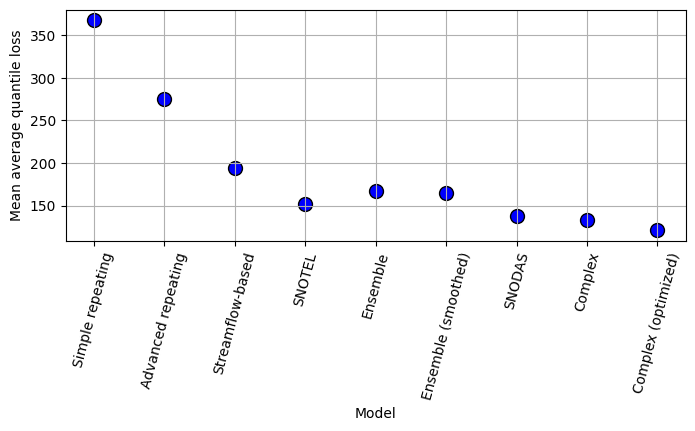
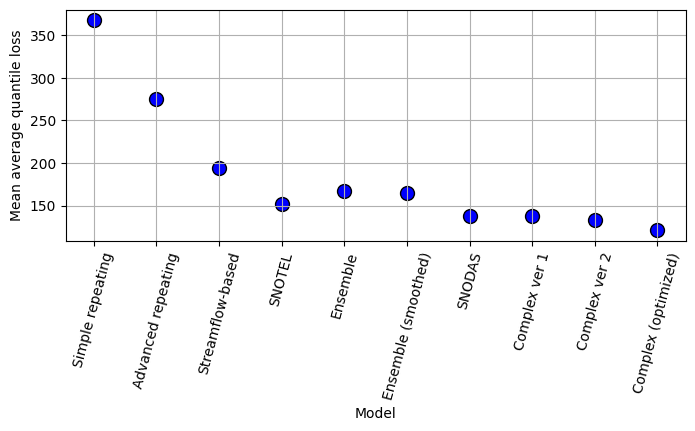
update information about complex models

diff --git a/examples/9_common_ver_1/validate_serialized_model.py b/examples/9_common_ver_1/validate_serialized_model.py
@@ -5,6 +5,7 @@ import pickle
 import shutil
 from pathlib import Path
 from typing import Hashable, Any, Optional, Union
+from loguru import logger
 
 import geopandas
 import numpy as np
@@ -533,17 +534,18 @@ def predict(site_id: str, issue_date: str, assets: dict[Hashable, Any],
         The three values should be (0.10 quantile, 0.50 quantile, 0.90 quantile).
     """
     # Prepare features for predict (see)
-    # try:
-    features_for_predict = collect_features_for_prediction(site_id, data_dir, preprocessed_dir, issue_date)
-    # except Exception as ex:
-    #     # Generate forecast like one year ago
-    #     try:
-    #         issue_date = datetime.datetime.strptime(issue_date, '%Y-%m-%d')
-    #         issue_date = issue_date - datetime.timedelta(days=365)
-    #         issue_date = issue_date.strftime('%Y-%m-%d')
-    #         features_for_predict = collect_features_for_prediction(site_id, data_dir, preprocessed_dir, issue_date)
-    #     except Exception as ex:
-    #         return 200.0, 400.0, 600.0
+    try:
+        features_for_predict = collect_features_for_prediction(site_id, data_dir, preprocessed_dir, issue_date)
+    except Exception as ex:
+        # Generate forecast like one year ago
+        try:
+            issue_date = datetime.datetime.strptime(issue_date, '%Y-%m-%d')
+            issue_date = issue_date - datetime.timedelta(days=365)
+            issue_date = issue_date.strftime('%Y-%m-%d')
+            features_for_predict = collect_features_for_prediction(site_id, data_dir, preprocessed_dir, issue_date)
+        except Exception as ex:
+            logger.info(f'Predictions was failed. Apply wrong approach')
+            return 200.0, 400.0, 600.0
 
     path_to_models = Path(src_dir, 'models').resolve()
 

diff --git a/report/generate_plot_with_metrics.py b/report/generate_plot_with_metrics.py
@@ -17,10 +17,11 @@ def compare_approaches():
     plots_folder = path_to_plots_folder()
     plots_folder.mkdir(exist_ok=True, parents=True)
 
-    df = pd.DataFrame({'Mean average quantile loss': [367.66, 275.82, 193.70, 151.71, 167.40, 165.20, 137.92, 132.90, 120.78],
+    df = pd.DataFrame({'Mean average quantile loss': [367.66, 275.82, 193.70, 151.71, 167.40, 165.20, 137.92, 137.65, 132.90, 120.78],
                        'Method': ['Simple repeating', 'Advanced repeating',
                                   'Streamflow-based', 'SNOTEL', 'Ensemble',
-                                  'Ensemble (smoothed)', 'SNODAS', 'Complex',
+                                  'Ensemble (smoothed)', 'SNODAS', 'Complex ver 1',
+                                  'Complex ver 2',
                                   'Complex (optimized)']})
 
     fig_size = (8.0, 3.0)

diff --git a/README.md b/README.md
@@ -209,6 +209,10 @@ Figure 10. Forecasts for tests years for site `animas_r_at_durango` using SNODAS
 
 ### Complex model ver 1
 
+Important! This model submitted to the Hindcast Stage
+
+Model assimilates PDSI, SNOTEL and Climate indices data 
+
 Validation years: `2016, 2017, 2018, 2019, 2020, 2021, 2022, 2023`
 
 - **MAE metric**: 214.44
@@ -216,7 +220,9 @@ Validation years: `2016, 2017, 2018, 2019, 2020, 2021, 2022, 2023`
 - **Symmetric MAPE metric**: 30.54
 - **Quantile loss metric**: 137.65
 - **Quantile loss metric (only for 0.5 quantile)**: 214.44
-- 
+
+Code for the model in the folder `9_common_ver_1`.
+
 ### Complex model ver 2
 
 Validation years: `2016, 2017, 2018, 2019, 2020, 2021, 2022, 2023`
@@ -226,7 +232,7 @@ Validation years: `2016, 2017, 2018, 2019, 2020, 2021, 2022, 2023`
 - **Symmetric MAPE metric**: 29.03
 - **Quantile loss metric**: 132.90
 - **Quantile loss metric (only for 0.5 quantile)**: 197.09
-- 
+
 Since SNODAS and SNOTEL data are compatible in the terms of feature engineering is was decided to use only SNOTEL 
 data because it is much easier to process (Figure 11)
 
